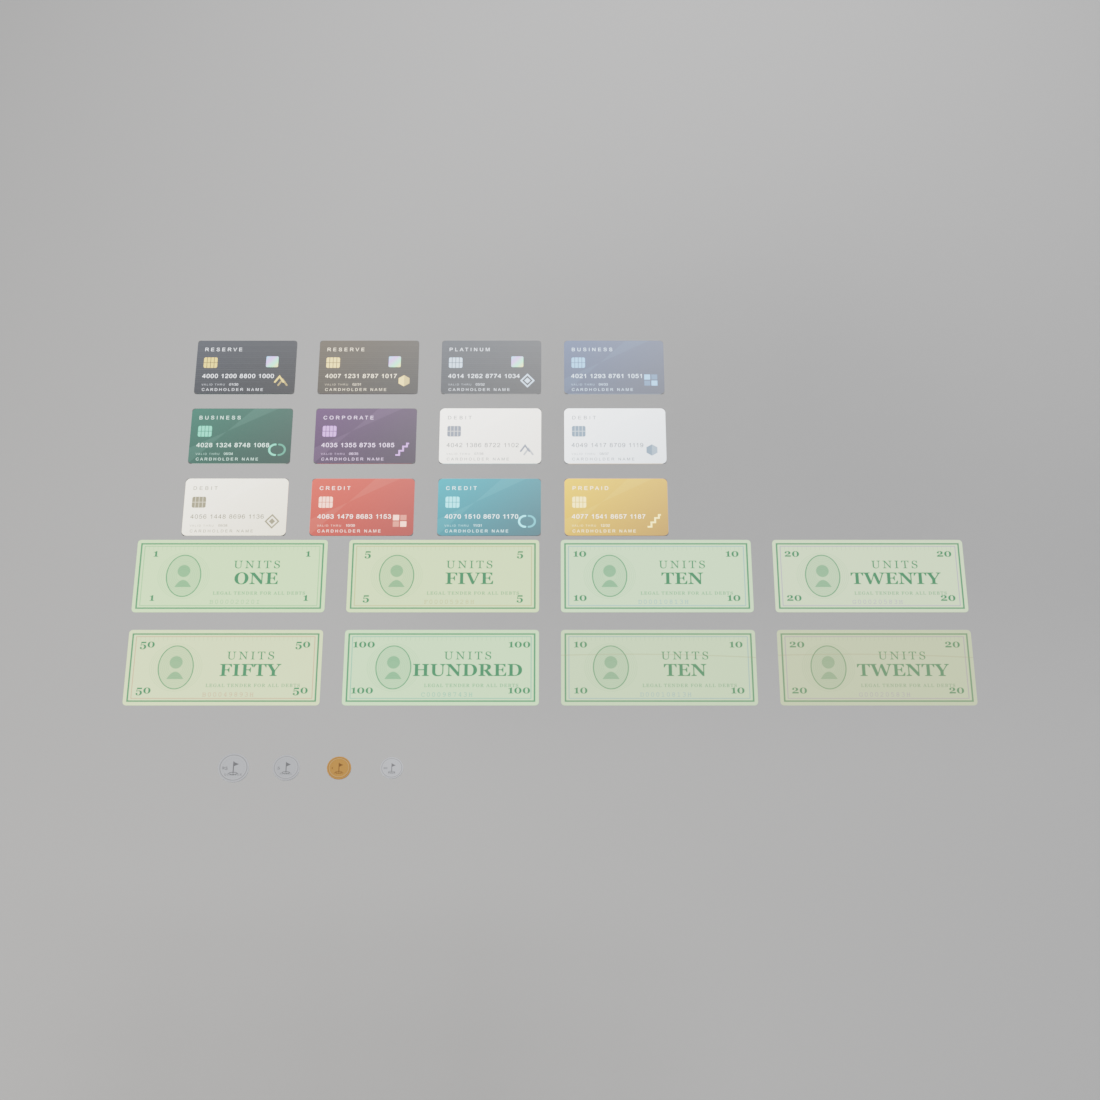
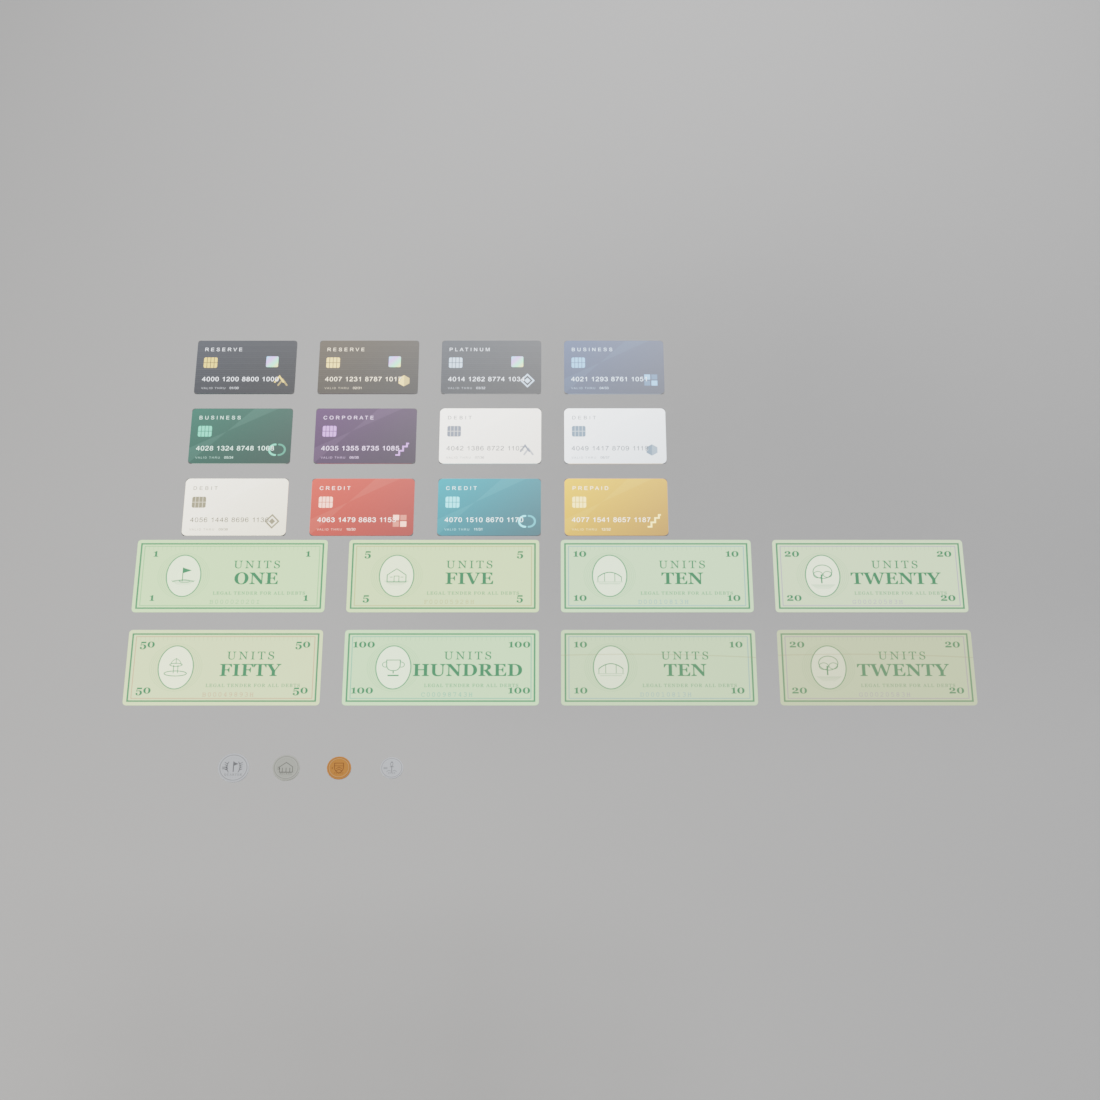
Round 2: one-level drawer with a bay per denomination, and money with real art
THE REGISTER. One level, two banks: six note bays across the back, one per
denomination, and four coin wells across the front, one per coin. No raised
platform, every divider the same height on the same floor.

The body had to get WIDER to do it. Six bays each need a note's 0.0725 across,
so 6 x 0.0725 plus five dividers is 0.4625 of usable width minimum -- at the
old 0.4400 body the bays came out 0.0611, narrower than the money that goes in
them. The layout the drawer owes decides the box. 0.5400 body now, bays 0.0768
with 4.3mm to spare; coin wells 0.1180 x 0.1333.

Colour: a deep pro-shop green shell, a charcoal monitor head (a bezel painted
the same green as the machine reads as a screen glued to a box), a WARM SAND
drawer so notes and coins read against the tray rather than into it, and brass
on the pull, the change-tray mat and the monitor's home dot. That is a fifth
material and it earns it -- the machine had no specular event anywhere on it,
and the brass is one part family rather than a tint sprinkled about.

Caught by a control: the edit that removed the platform assertions took the
keypad-keys assertion with it, and break=keys stopped firing. Restored.

THE MONEY. Cards lose the cardholder line. Every note carries an engraved
vignette of the course it is spent on -- a flag on a green, the clubhouse, a
bridge, an oak, a fountain, a trophy -- on a light medallion, because the ink
oval was darkening the one area with fine line work in it. Coins get four
[…]

diff --git a/tools/blender/hero/build_register.py b/tools/blender/hero/build_register.py
@@ -30,7 +30,7 @@ The monitor is EMISSIVE, so this renders in both Cycles and EEVEE.
 UNITS ARE YARDS.
 
     blender --factory-startup -b --python tools/blender/hero/build_register.py -- \
-        [cycles] [break=insert|dividers|platform|notebay|keys]
+        [cycles] [break=insert|dividers|notebay|keys]
 """
 
 import math
@@ -49,25 +49,30 @@ OUT_RENDER = os.path.join(REPO, "qa", "hero", "register")
 OUT_GLB = os.path.join(REPO, "Assets", "models", "hero", "cash_register.glb")
 
 # ---- the shell, in three bands: carcass (moves nothing), recessed band, deck
-BODY_W, BODY_D = 0.4400, 0.4600
+# WIDER than it was. Six note bays each need a note's 0.0725 across, so
+# 6 x 0.0725 + 5 dividers = 0.4625 of usable width minimum -- a 0.4400 body
+# gave 0.3940 and the bays came out 0.0611, narrower than the money that goes
+# in them. The layout the drawer owes decides the box, not the other way round.
+BODY_W, BODY_D = 0.5400, 0.4600
 CARCASS_H = 0.1280
 BAND_H = 0.0080
 DECK_H = 0.0600
 BODY_H = CARCASS_H + BAND_H + DECK_H          # 0.196
 
 # ---- the drawer
-DRAWER_W, DRAWER_D, DRAWER_H = 0.4060, 0.3900, 0.1080
+DRAWER_W, DRAWER_D, DRAWER_H = 0.5060, 0.3900, 0.0880
 WALL = 0.0060
 OPEN = 0.3200                 # 82% out: at 0.26 most of the note platform
                               # was still inside the machine and the whole point
                               # of the two-level revision could not be seen
 DRAWER_Z = 0.0110
 
-COIN_BAYS = 5                 # channels front-to-back on the floor
-NOTE_BAYS = 4                 # bays on the raised platform
-COIN_WALL_H = 0.0420          # channel wall height; also the platform's support
-PLATFORM_T = 0.0050
-NOTE_WALL_H = 0.0220
+# ONE LEVEL, TWO BANKS. Six note bays -- one per denomination -- and four coin
+# wells, one per coin. Every divider is the same height and stands on the same
+# floor: there is no raised platform any more.
+NOTE_BAYS = 6                 # 1, 5, 10, 20, 50, 100
+COIN_BAYS = 4                 # quarter, dime, nickel, penny
+BANK_WALL_H = 0.0380
 # WHY THERE IS A SEPARATE INSERT SLAB, and not dividers sunk into the drawer.
 # The tray is built by SOLIDIFY with a rim, and its inner floor surface lands at
 # z = 0.0035, NOT at the 6 mm the wall thickness implies -- so the floor is
@@ -84,7 +89,7 @@ NOTE_WALL_H = 0.0220
 INSERT_Z0 = 0.0020
 INSERT_T = 0.0120
 SINK = 0.0060                 # foot depth into the 12 mm insert slab
-NOTE_SHARE = 0.52             # share of the drawer's depth the platform covers
+NOTE_SHARE = 0.64             # share of the depth given to the note bank
 DIV_T = 0.0055
 
 # What has to fit, from build_money.py. These are the numbers the layout owes.
@@ -144,76 +149,39 @@ def wall_strip(name, x, y0, y1, z0, z1, t, segs=6, along="y"):
 
 
 def insert(broken=""):
-    """Two levels. Coin channels on the floor running the FULL depth; a note
-    platform resting on their walls over the rear share. That is what makes
-    "coins beneath notes" true of the geometry and not just of the words."""
+    """One level, two banks. Notes at the back, coins at the front, one cross
+    wall between them and every divider standing on the same floor."""
     hw = DRAWER_W * 0.5 - WALL
     hd = DRAWER_D * 0.5 - WALL
-    # The TILL INSERT's base slab. A real cash drawer holds a lift-out insert
-    # and the dividers are moulded into THAT, not sunk into the drawer floor --
-    # which is also the only structure that can be asserted here. See INSERT_T.
     ins_z = INSERT_Z0 + (0.020 if broken == "insert" else 0.0)
     insert_base = HS.apply_mods(HS.box(
         "TillInsert", (0, 0, ins_z + INSERT_T * 0.5),
         (hw * 2 + 0.0080, hd * 2 + 0.0080, INSERT_T)))
     top = ins_z + INSERT_T
-
     if broken == "dividers":
         # every divider lifted off the insert. It still looks like a divided
         # drawer from above, which is why it ships.
         top += 0.020
+    z0, z1 = top - SINK, top + BANK_WALL_H
 
-    coin_divs = []
-    for i in range(1, COIN_BAYS):
-        x = -hw + (hw * 2) * i / COIN_BAYS
-        coin_divs.append(wall_strip(
-            f"Div_Coin_{i}", x, -hd - 0.0020, hd + 0.0020,
-            top - SINK, top + COIN_WALL_H, DIV_T, segs=6))
-
-    # A cross wall through the OPEN front section. Without it the coin section
-    # is five long troughs, which is what note bays look like in a real till --
-    # coins live in short wells, and the wells are what makes the two levels
-    # read as two different jobs rather than one tray at two heights.
     split_y = hd - (hd * 2) * NOTE_SHARE
-    coin_divs.append(wall_strip(
-        "Div_CoinCross", (-hd + split_y) * 0.5, -hw - 0.0020, hw + 0.0020,
-        top - SINK, top + COIN_WALL_H, DIV_T, segs=6, along="x"))
-    plat_z = ins_z + INSERT_T + COIN_WALL_H - 0.0020   # 2 mm into the wall tops
-    if broken == "platform":
-        # 20 mm, not 2: the platform overlaps its walls by 2 mm, so a small
-        # shove leaves it still seated and the control proves nothing.
-        plat_z += 0.020
-    plat_d = hd - split_y
-    platform = HS.apply_mods(HS.box(
-        "NotePlatform", (0, split_y + plat_d * 0.5, plat_z + PLATFORM_T * 0.5),
-        (hw * 2, plat_d, PLATFORM_T)))
+    cross = wall_strip("Div_Bank", split_y, -hw - 0.0020, hw + 0.0020,
+                       z0, z1, DIV_T, segs=8, along="x")
 
-    bays = 6 if broken == "notebay" else NOTE_BAYS
-    note_divs = []
-    for i in range(1, bays):
-        x = -hw + (hw * 2) * i / bays
-        b = HS.box(f"Div_Note_{i}",
-                   (x, split_y + plat_d * 0.5,
-                    plat_z + PLATFORM_T + NOTE_WALL_H * 0.5 - 0.0010),
-                   (DIV_T, plat_d - 0.0040, NOTE_WALL_H + 0.0020))
-        note_divs.append(HS.apply_mods(b))
-
-    # A retaining lip along the platform's front edge. Without it the note bays
-    # end in a 5 mm cliff over the coin wells and a bill laid flat would slide
-    # straight off the front -- the tray would measure correctly and still not
-    # hold anything.
-    note_divs.append(HS.apply_mods(HS.box(
-        "NoteLip", (0, split_y + 0.0035, plat_z + PLATFORM_T + 0.0060),
-        (hw * 2 - 0.0040, 0.0050, 0.0160))))
-    return insert_base, coin_divs, platform, note_divs, split_y
+    bays = 9 if broken == "notebay" else NOTE_BAYS
+    note_divs = [wall_strip(f"Div_Note_{i}", -hw + (hw * 2) * i / bays,
+                            split_y, hd + 0.0020, z0, z1, DIV_T, segs=5)
+                 for i in range(1, bays)]
+    coin_divs = [wall_strip(f"Div_Coin_{i}", -hw + (hw * 2) * i / COIN_BAYS,
+                            -hd - 0.0020, split_y, z0, z1, DIV_T, segs=5)
+                 for i in range(1, COIN_BAYS)]
+    return insert_base, cross, note_divs, coin_divs, split_y
 
 
-def bay_sizes(divs, host, axis):
+def bay_sizes(divs, lo, hi, axis):
     """Bay widths read off the GEOMETRY -- the gaps between the dividers that
     are actually there, bounded by the host that is actually there. Reading the
     authoring constant back would pass on a drawer whose dividers had moved."""
-    hv = [host.matrix_world @ v.co for v in host.data.vertices]
-    lo, hi = min(v[axis] for v in hv), max(v[axis] for v in hv)
     spans = sorted((min(v[axis] for v in dv), max(v[axis] for v in dv))
                    for dv in ([d.matrix_world @ v.co for v in d.data.vertices]
                               for d in divs))
@@ -311,8 +279,8 @@ def build(broken=""):
 
     # ---- drawer, insert, face, pull
     p["drawer"] = tray()
-    ins, coin_divs, platform, note_divs, split_y = insert(broken=broken)
-    moving = [p["drawer"], ins, platform] + coin_divs + note_divs
+    ins, cross, note_divs, coin_divs, split_y = insert(broken=broken)
+    moving = [p["drawer"], ins, cross] + coin_divs + note_divs
     for o in moving:
         o.location += Vector((0, -OPEN, DRAWER_Z))
     bpy.context.view_layer.update()
@@ -321,7 +289,7 @@ def build(broken=""):
         o.select_set(True)
     bpy.context.view_layer.objects.active = moving[0]
     bpy.ops.object.transform_apply(location=True, rotation=False, scale=False)
-    p["insert"], p["platform"] = ins, platform
+    p["insert"], p["cross"] = ins, cross
     p["coin_divs"], p["note_divs"] = coin_divs, note_divs
     p["split_y"] = split_y - OPEN
 
@@ -374,31 +342,47 @@ def build(broken=""):
                                      -gh / 2 - BEZEL - CHIN / 2)))
     p["dot"] = dot
 
-    # ---- four materials, on real part boundaries. No fifth: the brand plate
-    # and the coin lip use the trim, which is the same break the band uses.
-    shellmat = HS.pbr("TillShell", (0.052, 0.056, 0.062), roughness=0.46)
-    trim = HS.pbr("TillTrim", (0.022, 0.024, 0.028), roughness=0.38)
-    inner = HS.pbr("TillDrawer", (0.030, 0.033, 0.038), roughness=0.72)
+    # ---- FIVE materials now, and the fifth earns it. The machine was four
+    # tones of grey with one green screen and no specular event anywhere on it;
+    # the golf-assets rule is that every asset needs at least one thing that
+    # catches light. Brass does that AND carries the colour onto the brand
+    # plate, the change-tray mat, the pull and the monitor's home dot, which is
+    # a real part family rather than a tint sprinkled about.
+    shellmat = HS.pbr("TillShell", (0.021, 0.058, 0.040), roughness=0.44)
+    trim = HS.pbr("TillTrim", (0.020, 0.023, 0.026), roughness=0.38)
+    # a WARM SAND drawer, not another grey: notes and coins are what goes in it
+    # and they have to read against the tray rather than into it
+    inner = HS.pbr("TillDrawer", (0.168, 0.148, 0.118), roughness=0.74)
+    brass = HS.pbr("TillBrass", (0.402, 0.276, 0.092), roughness=0.28,
+                   metallic=0.88)
     glow = HS.pbr("TillScreen", (0.030, 0.120, 0.075), roughness=0.22)
     em = glow.node_tree.nodes["Principled BSDF"]
     if "Emission Color" in em.inputs:
         em.inputs["Emission Color"].default_value = (0.075, 0.520, 0.330, 1.0)
         em.inputs["Emission Strength"].default_value = 2.4
 
-    for key in ("carcass", "deck", "face", "printer", "bez_top", "bez_bot",
-                "bez_l", "bez_r", "chin", "rear"):
+    # the monitor head stays CHARCOAL, like the kit's does in game -- a bezel
+    # painted the same green as the machine reads as a screen glued to a box
+    for key in ("carcass", "deck", "face", "printer"):
         p[key].data.materials.append(shellmat)
-    for key in ("band", "bezel", "keypad", "slot", "pull", "stalk", "brand",
-                "coin_lip", "coin_cup", "backing", "dot", "glass"):
+    for key in ("bez_top", "bez_bot", "bez_l", "bez_r", "chin", "rear"):
         p[key].data.materials.append(trim)
+    for key in ("band", "bezel", "keypad", "slot", "stalk", "coin_cup",
+                "backing", "glass", "brand"):
+        p[key].data.materials.append(trim)
+    # the pull is the only brass on the drawer face. Brass on the brand plate
+    # too made the two read as a matched pair of bars rather than a recessed
+    # panel above a handle.
+    for key in ("pull", "coin_lip", "dot"):
+        p[key].data.materials.append(brass)
     for o in p["keys"]:
         o.data.materials.append(trim)
     for o in p["vents"] + p["mon_vents"]:
         o.data.materials.append(trim)
-    for o in [p["drawer"], p["insert"], p["platform"]] + coin_divs + note_divs:
+    for o in [p["drawer"], p["insert"], p["cross"]] + coin_divs + note_divs:
         o.data.materials.append(inner)
     p["screen"].data.materials.append(glow)
-    p["materials"] = [shellmat, trim, inner, glow]
+    p["materials"] = [shellmat, trim, inner, glow, brass]
     return p
 
 
@@ -436,17 +420,8 @@ def main():
             f"its underside reads {seat * 1000:.2f} mm (negative is open air)")
     print(f"  connection assertion passed: the till insert rests on the drawer "
           f"floor ({seat * 1000:.2f} mm into it)")
-    HS.assert_rooted(p["coin_divs"], p["insert"], "coin channel walls",
-                     min_verts=3, min_depth=0.0015)
-    # Tested wall-INTO-platform, not platform-into-wall: the platform spans the
-    # full width so none of its vertices land inside a 5.5 mm divider, which is
-    # the wand's flange fault exactly. The wall's top corners DO land in the
-    # platform, so that is the direction that measures the join.
-    HS.assert_touching(p["coin_divs"][0], p["platform"],
-                       "the note platform must rest on the coin channel walls",
-                       max_gap=0.0020)
-    HS.assert_rooted(p["note_divs"], p["platform"], "note bay dividers",
-                     min_verts=3, min_depth=0.0008)
+    HS.assert_rooted(p["coin_divs"] + p["note_divs"] + [p["cross"]], p["insert"],
+                     "the two banks' dividers", min_verts=3, min_depth=0.0015)
     HS.assert_rooted(p["keys"], p["keypad"], "keypad keys",
                      min_verts=3, min_depth=0.0010)
     HS.assert_boxes_overlap(p["face"], p["drawer"],
@@ -460,22 +435,19 @@ def main():
     HS.assert_touching(p["glass"], p["bez_top"], "the glass must fill its bezel", 0.0025)
     HS.assert_touching(p["screen"], p["glass"], "the live canvas must lie on the glass", 0.0025)
 
-    # ---- THE LAYOUT THE REVISION ASKS FOR, measured off the geometry
-    # the retaining lip runs the full width, so it is not a bay boundary --
-    # leaving it in made the measured bay -296 mm wide
-    uprights = [d for d in p["note_divs"] if "Lip" not in d.name]
-    note_w = min(bay_sizes(uprights, p["platform"], 0))
-    py0, py1 = extent(p["platform"], 1)
-    note_d = py1 - py0
-    runners = [d for d in p["coin_divs"] if "Cross" not in d.name]
-    coin_w = min(bay_sizes(runners, p["insert"], 0))
+    # ---- THE LAYOUT, measured off the geometry. HW is the true usable width;
+    # the insert slab is 4 mm proud of it each side to press-fit into the walls,
+    # and measuring against the slab would have read the two end bays 4 mm wider
+    # than they are.
+    HW = DRAWER_W * 0.5 - WALL
+    note_w = min(bay_sizes(p["note_divs"], -HW, HW, 0))
+    coin_w = min(bay_sizes(p["coin_divs"], -HW, HW, 0))
     cy0, cy1 = extent(p["drawer"], 1)
-    coin_open_d = py0 - (cy0 + WALL)
+    xy0, xy1 = extent(p["cross"], 1)
+    note_d = (cy1 - WALL) - xy1
+    coin_d = xy0 - (cy0 + WALL)
     dz0, dz1 = extent(p["drawer"], 2)
-    pz0, pz1 = extent(p["platform"], 2)
-    clear_above_note = dz1 - pz1
-    nz = extent(p["note_divs"][0], 2)
-    clear_above_walls = dz1 - nz[1]
+    wz = extent(p["note_divs"][0], 2)
 
     if note_w < NOTE_FLAT[1] or note_d < NOTE_FLAT[0]:
         raise SystemExit(
@@ -485,24 +457,25 @@ def main():
     if coin_w < COIN_MAX_D:
         raise SystemExit(
             f"BUILD FAILED: a quarter is {COIN_MAX_D * 1000:.1f} mm across and "
-            f"the coin channel is {coin_w * 1000:.1f} mm wide")
+            f"the coin well is {coin_w * 1000:.1f} mm wide")
 
     print("")
-    print("  === THE DRAWER, TWO LEVELS, measured off the geometry (YARDS) ===")
-    print(f"  TOP — {NOTE_BAYS} note bays   {note_d:.4f} deep x {note_w:.4f} wide "
-          f"x {NOTE_WALL_H:.4f} walls")
-    print(f"        a note is        {NOTE_FLAT[0]:.4f} x {NOTE_FLAT[1]:.4f} — "
-          f"lies flat with {(note_d - NOTE_FLAT[0]) * 1000:.0f} mm to spare")
-    print(f"        clearance above  {clear_above_note:.4f} to the rim "
-          f"({clear_above_walls:.4f} above the bay walls)")
-    print(f"  BOTTOM — {COIN_BAYS} coin channels  {coin_w:.4f} wide x "
-          f"{COIN_WALL_H:.4f} deep, running the full floor")
-    print(f"        open in front of the platform for {coin_open_d:.4f}")
-    print(f"        a quarter is     {COIN_MAX_D:.4f} across")
-    print(f"  platform sits {(pz0 - dz0) * 1000:.1f} mm above the drawer floor")
+    print("  === THE DRAWER: ONE LEVEL, TWO BANKS (YARDS) ===")
+    print(f"  BACK  — {NOTE_BAYS} note bays, one per denomination "
+          f"(1 5 10 20 50 100)")
+    print(f"          each {note_d:.4f} deep x {note_w:.4f} wide")
+    print(f"          a note is {NOTE_FLAT[0]:.4f} x {NOTE_FLAT[1]:.4f} — "
+          f"{(note_d - NOTE_FLAT[0]) * 1000:.0f} mm and "
+          f"{(note_w - NOTE_FLAT[1]) * 1000:.1f} mm to spare")
+    print(f"  FRONT — {COIN_BAYS} coin wells, one per coin "
+          f"(quarter dime nickel penny)")
+    print(f"          each {coin_d:.4f} deep x {coin_w:.4f} wide")
+    print(f"          the largest coin is {COIN_MAX_D:.4f} across")
+    print(f"  every divider {BANK_WALL_H:.4f} high on one floor; "
+          f"{dz1 - wz[1]:.4f} clear to the rim")
     print("")
     print(f"  MONITOR  glass {GLASS[0]:.4f} x {GLASS[1]:.4f} "
-          f"({GLASS[0] / GLASS[1]:.3f} — the game's canvas is 1024x640 = 1.600), "
+          f"(the game's canvas is 1024x640 = 1.600), "
           f"bezel {BEZEL:.4f}, chin {CHIN:.4f}, tilt {math.degrees(TILT):.0f} deg")
     print("")
 
@@ -520,8 +493,8 @@ def main():
                      elevation=24.0, lens=LENS, res=(900, 900))
     H.contact_sheet(tt, os.path.join(OUT_RENDER, f"register{suffix}-turntable.png"), cols=4)
 
-    dc, dr = H.subject_sphere([p["drawer"], p["insert"], p["platform"]] + p["coin_divs"]
-                              + p["note_divs"])
+    dc, dr = H.subject_sphere([p["drawer"], p["insert"], p["cross"]]
+                              + p["coin_divs"] + p["note_divs"])
     dd = H.fit_distance(dr, LENS, res=(1100, 1100), margin=1.12)
     for label, az, el, c, d in (("hero", -118, 28, centre, dist),
                                 ("front", -90, 10, centre, dist),
